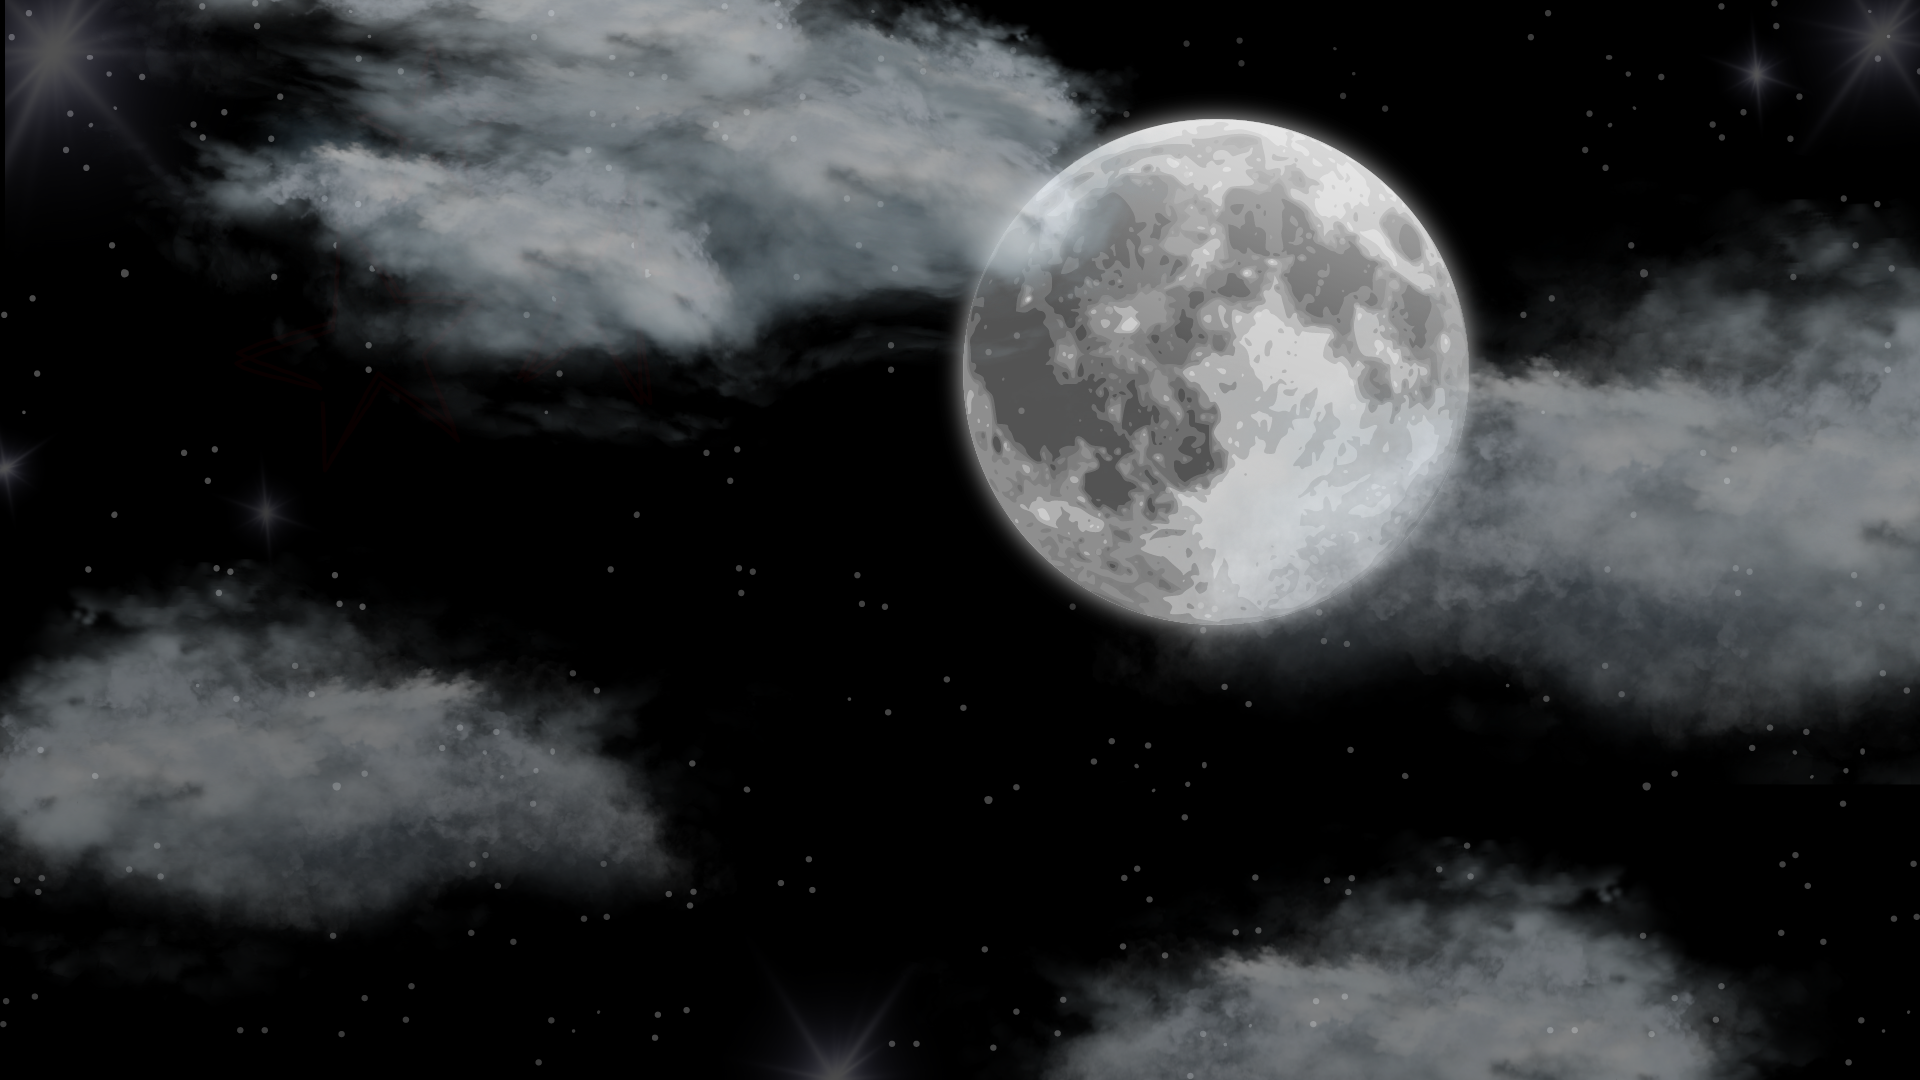
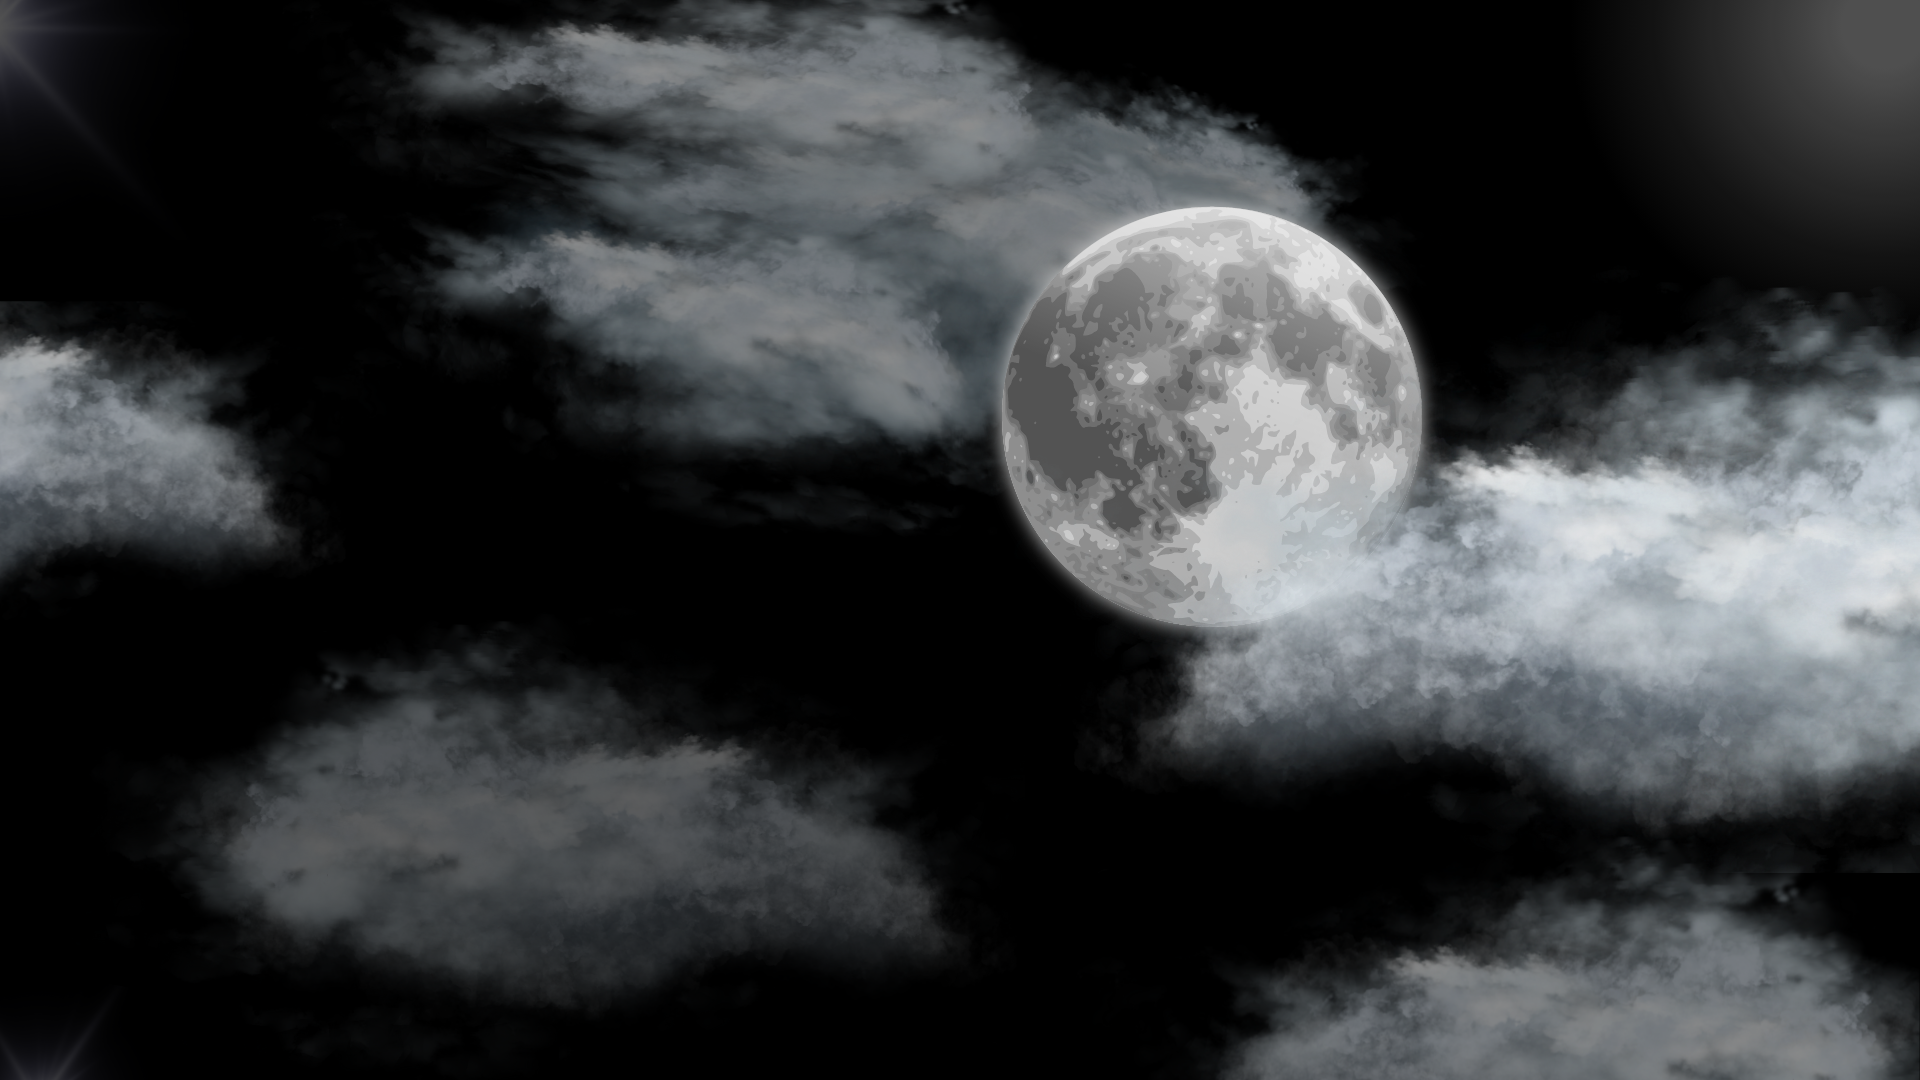
Falta tentar colocar algo na parte de baixo da imagem

diff --git a/src/index.css b/src/index.css
@@ -5,10 +5,11 @@
     width: 100vw;
     height: 100vh;
     overflow-x: hidden;
+    background-color: black;
 }
 
 .image {
-    background: url(C:\Users\suely\Documents\Adna\programação\landing-page\public\Nuvens.png);
+    background: url(C:\Users\suely\Documents\Adna\programação\landing-page\public\CEU.png);
     background-attachment: fixed;
     background-position: center;
     background-size: cover;
@@ -20,13 +21,13 @@
 .body {
    
     background: url(C:\Users\suely\Documents\Adna\programação\landing-page\public\degrade.png);
-   height: 10vh;
-   background-color: black;
+    height: 50vh;
+    position: relative;
+    bottom:50%
+   
 }
 
-.footer {
-    background-color: black;
-}
+
 
 #titulo {
     color: rgb(243, 243, 245);
